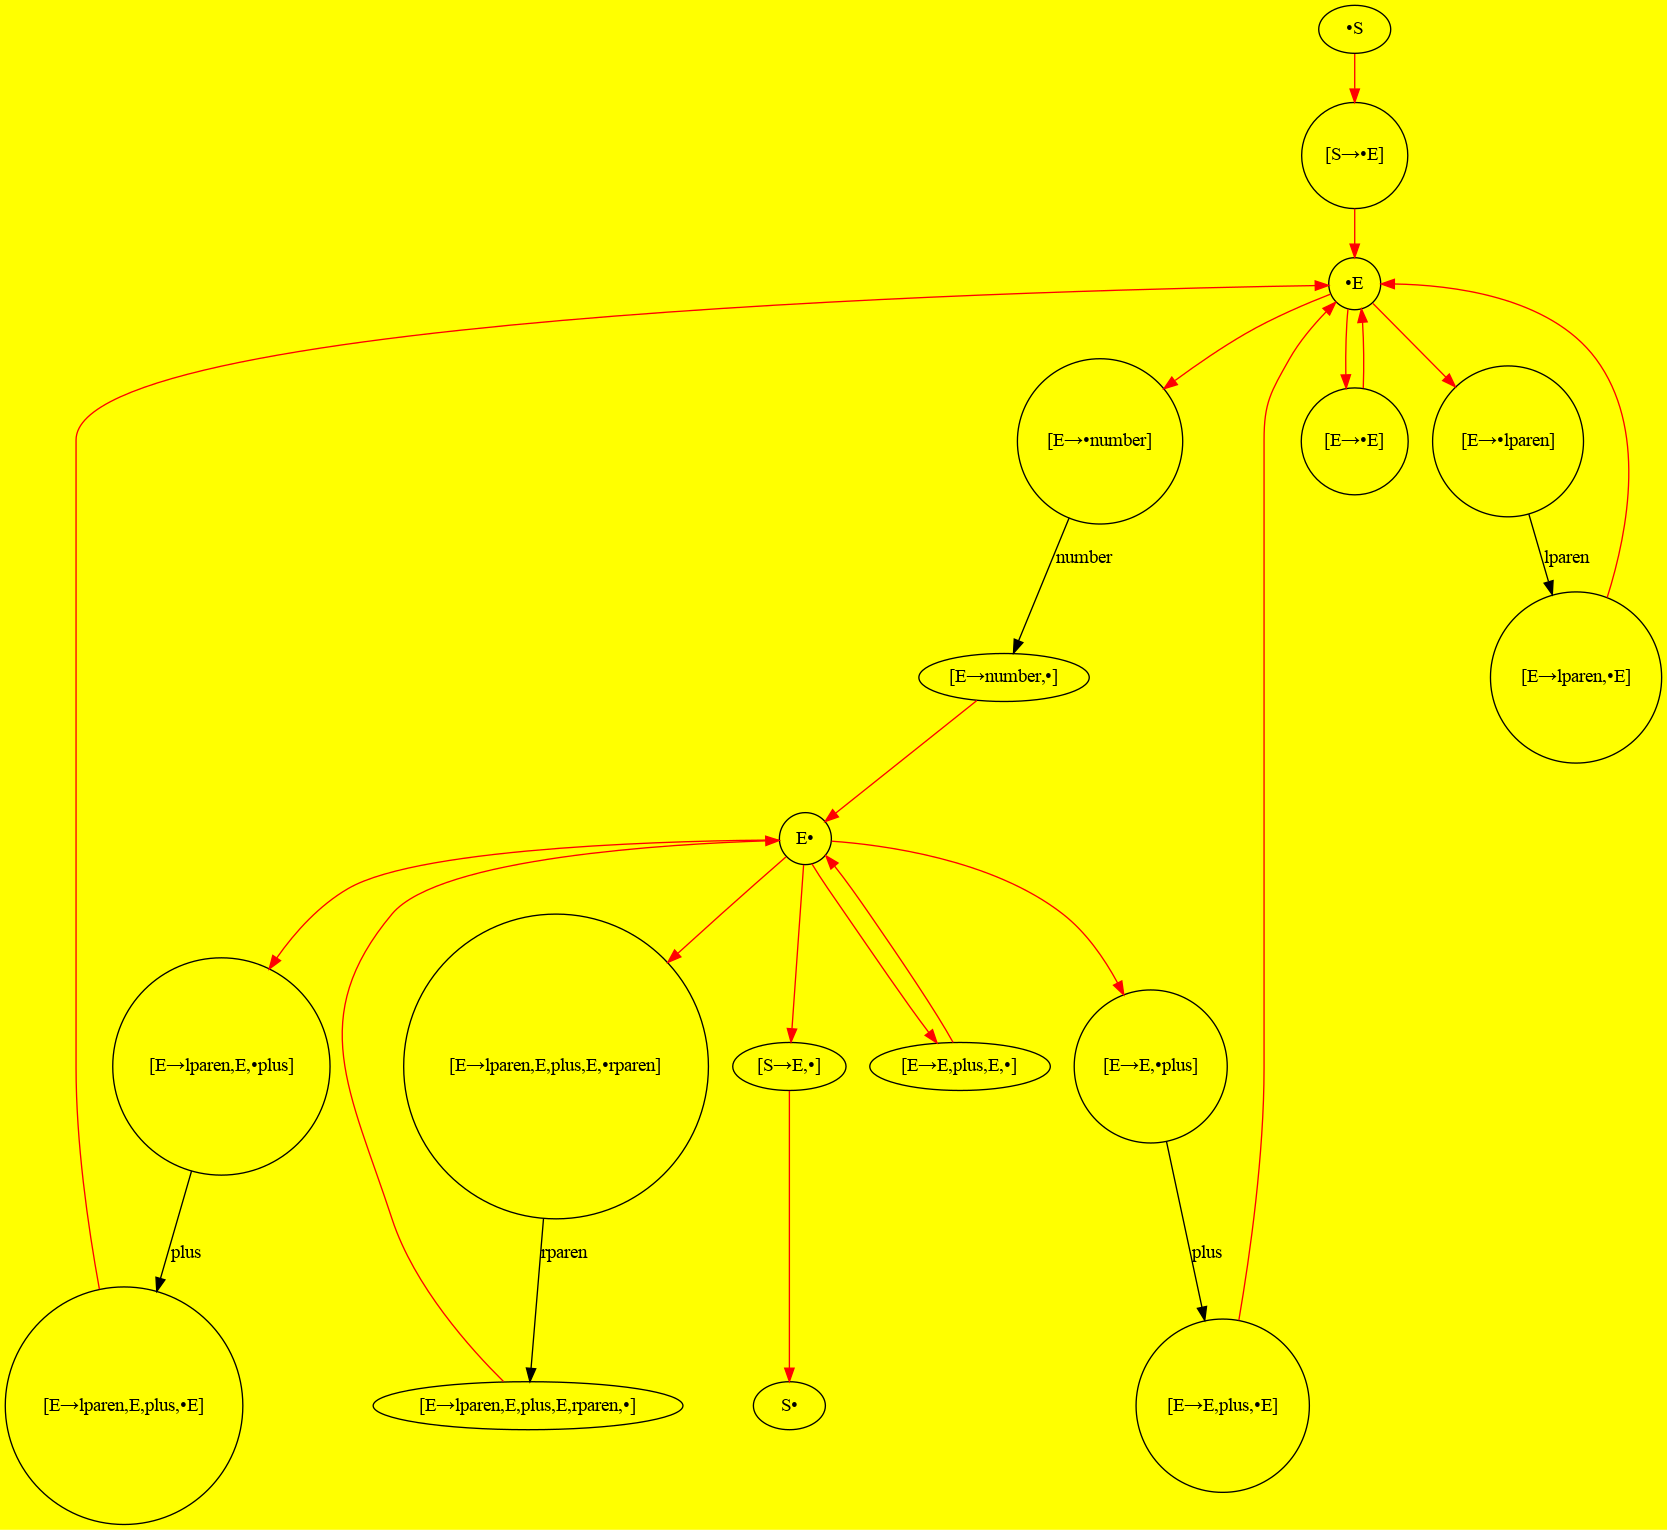
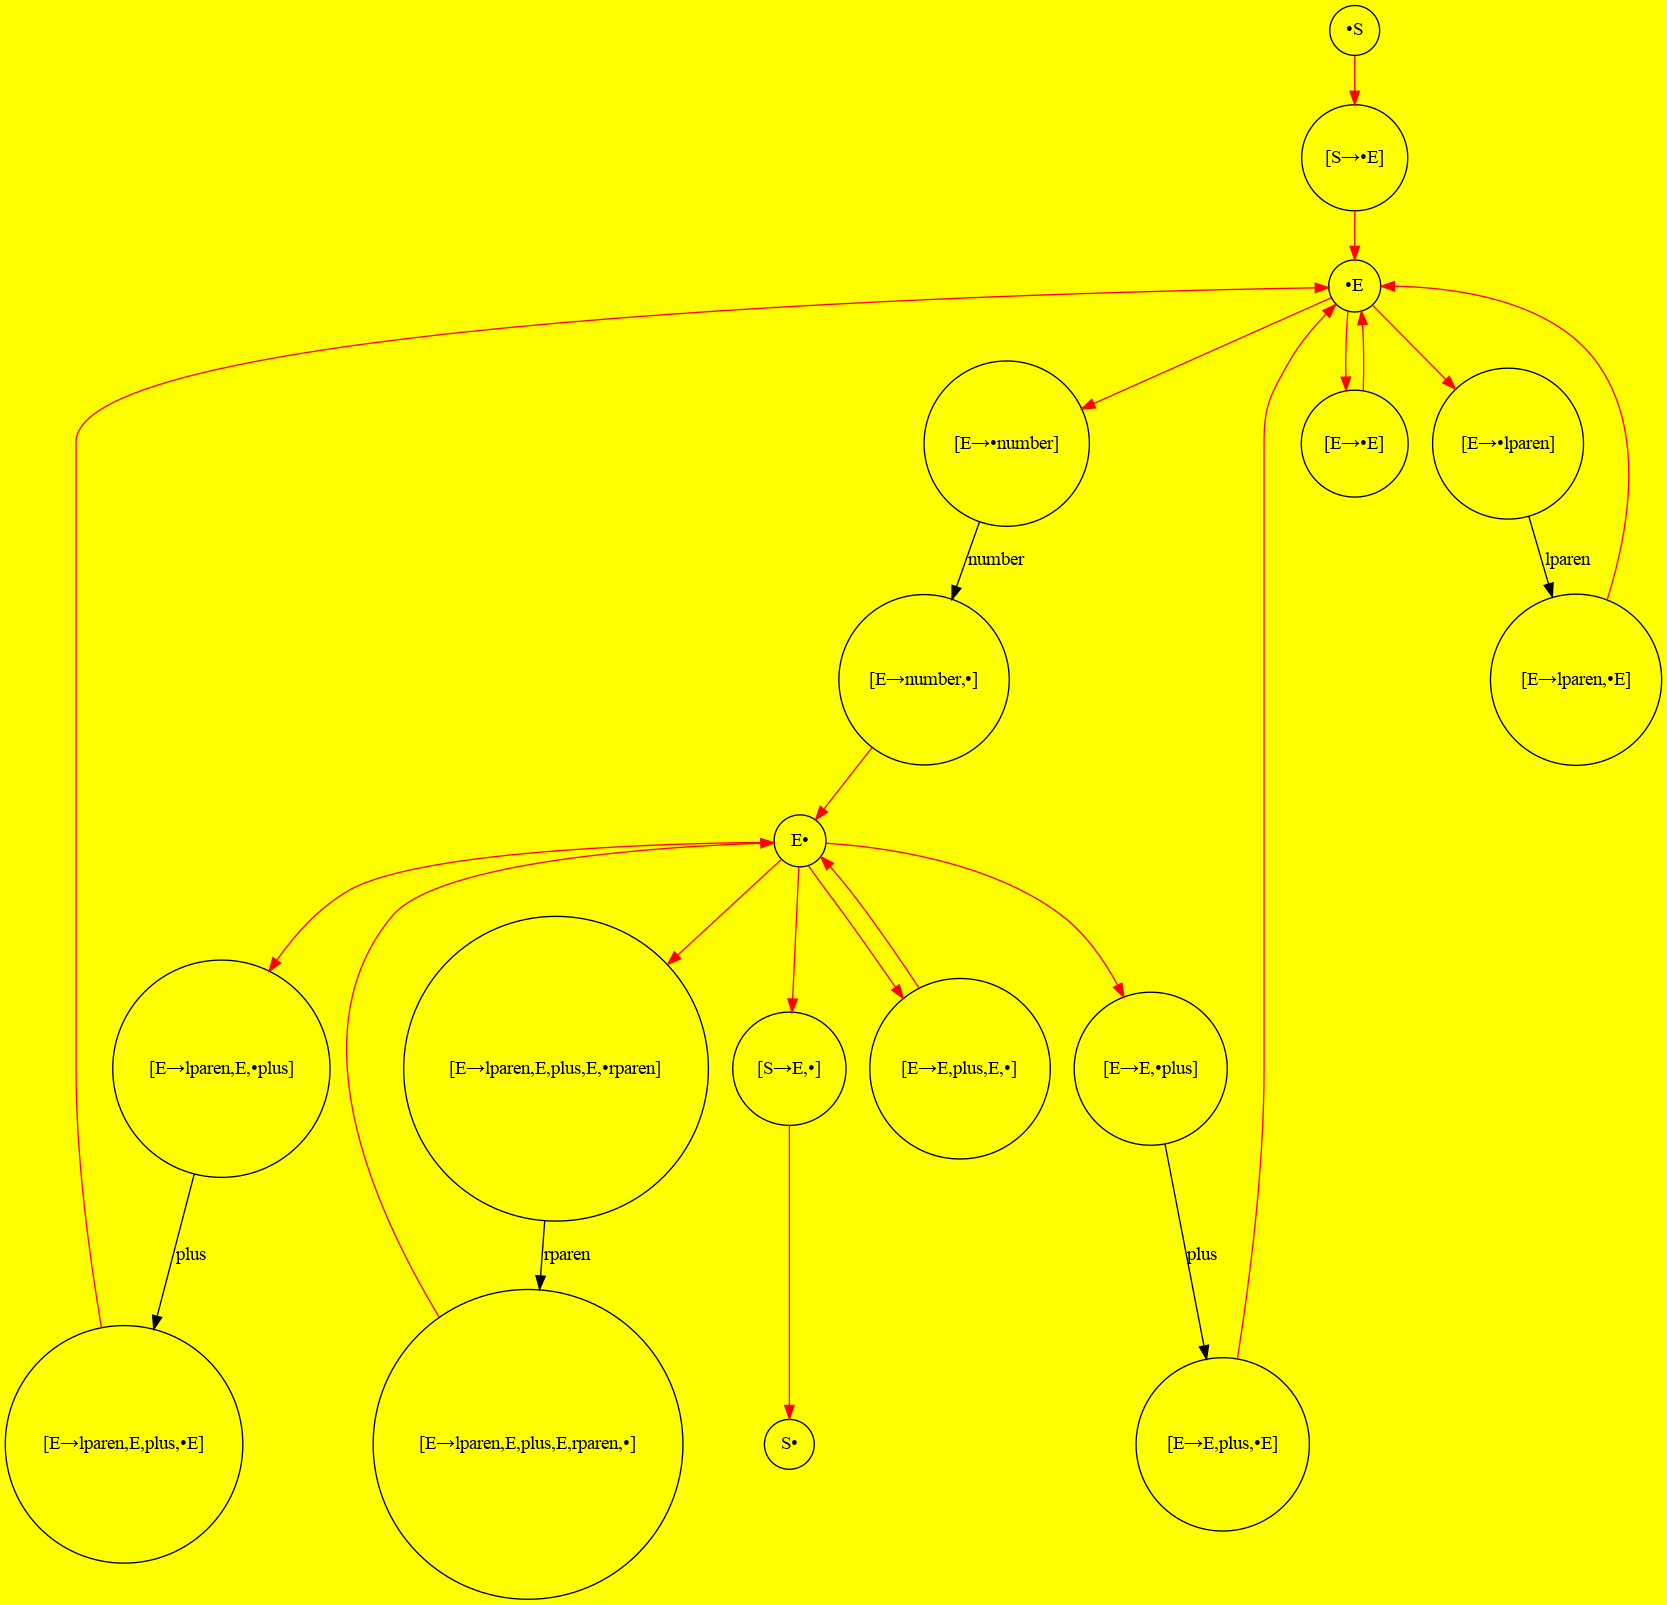
cleanup code, added helper functions, added comments for build_gfg

diff --git a/gfg.py b/gfg.py
@@ -27,11 +27,6 @@ class Node:
     def __eq__(self, other):
         return isinstance(other, Node) and self.label == other.label
 
-def add_edge(src, dest, label):
-    src.outgoing_edges[dest.label] = label
-    dest.incoming_edges[src.label] = label
-    # print(f"\t\t\tcreating edge from {src.long_name} to {dest.long_name} with LABEL: {label}")
-
 class GFG:
     def __init__(self, lexer):
         self.nodes = {}
@@ -48,126 +43,134 @@ class GFG:
         # simply used for debugging to visualize the gfg
         self.graph = pydot.Dot("my_graph", graph_type="digraph", bgcolor="yellow")
 
+    def add_node(self, label, long_name, type):
+        self.nodes[label] = Node(label, long_name, type)
+        # add node to pydot graph for visualization/debugging only
+        self.graph.add_node(pydot.Node(long_name, shape="circle"))
+        return self.nodes[label]
+    
+    # create the start and end nodes for a given production, curr_label is the next available
+    # int label that can be used to represent a node
+    def create_start_end_nodes_for_prod(self, prod_name, curr_label):
+        self.add_node(curr_label, f"•{prod_name}", "start")
+        self.add_node(curr_label + 1, f"{prod_name}•", "end")
+
+        # update maps to keep track of relationship between production names and nodes
+        self.map_prod_name_to_start[prod_name] = curr_label
+        self.map_start_to_end[curr_label] = curr_label + 1
+        self.map_end_to_start[curr_label + 1] = curr_label
+        return curr_label + 2
+
+    # adds a direction edge from src to dest where the label is the terminal that must be consumed
+    # to move from src to dest in the gfg (often the empty string)
+    def add_edge(self, src, dest, label):
+        src.outgoing_edges[dest.label] = label
+        dest.incoming_edges[src.label] = label
+
+        # optional edges in pydot for gfs visualization, scan edges are black, 
+        # epsilon edges are red
+        color = "red" if label == "" else "black"
+        self.graph.add_edge(pydot.Edge(src.long_name, dest.long_name, label=label, color=color))
+        # print(f"\t\t\tcreating edge from {src.long_name} to {dest.long_name} with LABEL: {label}")
+
     # productions is a map string : list(list(str))
     # value is list of possible productions for a given production name
     # each production is a list of token names or production names
     def build_gfg(self, productions, start_producition="S"):
-        # production : <start node label, end node label>
-
         # each node in the graph is assigned an integer label
         curr_label = 0
 
         # create the start and end node for the start producition first
         # ensures that the start node for the gfg is node 0
         # ensures that the end node for the gfg is node 1
-        self.nodes[curr_label] = Node(curr_label, f"•{start_producition}", "start")
-        self.nodes[curr_label + 1] = Node(curr_label + 1, f"{start_producition}•", "end")
-
-        self.map_prod_name_to_start[start_producition] = curr_label
-        self.map_start_to_end[curr_label] = curr_label + 1
-        self.map_end_to_start[curr_label + 1] = curr_label
-        curr_label += 2
+        curr_label = self.create_start_end_nodes_for_prod(start_producition, curr_label)
 
         # create start and end node for every other production
         for prod_name in productions:
             if prod_name is not start_producition:
-                self.nodes[curr_label] = Node(curr_label, f"•{prod_name}", "start")
-                self.graph.add_node(pydot.Node(f"•{prod_name}", shape="circle"))
-
-                self.nodes[curr_label + 1] = Node(curr_label + 1, f"{prod_name}•", "end")
-                self.graph.add_node(pydot.Node(f"{prod_name}•", shape="circle"))
-
-                self.map_prod_name_to_start[prod_name] = curr_label
-                self.map_start_to_end[curr_label] = curr_label + 1
-                self.map_end_to_start[curr_label + 1] = curr_label
-                curr_label += 2
+                curr_label = self.create_start_end_nodes_for_prod(prod_name, curr_label)
 
         # for each production create necessary nodes
         for prod_name, prods in productions.items():
             for prod_rhs in prods:
                 # print(f"\tCreating production: {prod_name}→{prod_rhs}")
 
-                # previous node in the production
+                # previous node in the production (initially the start node of that production)
                 prev_node = self.nodes[self.map_prod_name_to_start[prod_name]]
-                # set if previous node as a call node
+                # set if previous node is a call node
                 end_node = None 
                 edge_label = ""
                 prefix_label = f"{prod_name}→"
                 is_entry = True
 
                 for term in prod_rhs:
-                    new_node = Node(curr_label, f"[{prefix_label}•{term}]", "production")
+                    new_node = self.add_node(curr_label, f"[{prefix_label}•{term}]", "production")
+                    curr_label += 1
                     new_node.is_entry = is_entry
                     is_entry = False
                     if prev_node.is_call:
+                        # if previous node is a call node to a production then this node is 
+                        # the return node from the production
+                        # Ex: prev_node: A→a•B, then new_node is A→aB•
                         new_node.is_return = True
                         self.map_call_to_return[prev_node.label] = new_node.label
                         self.map_return_to_call[new_node.label] = prev_node.label
 
-                    self.graph.add_node(pydot.Node(f"[{prefix_label}•{term}]", shape="circle"))
-                    self.nodes[curr_label] = new_node
-                    curr_label += 1
-
-                    # add edge from prev_node to new_node with appropriate label
+                    # if previous node is a call node, Ex: prev_node: A→a•B then incoming edge to
+                    # new node should be from the end node of the called production, in this case B•
+                    # this node was stored in end_node during previous iteration
+                    # otherwise if previous node is not a call node, then just set incoming edge
+                    # from prev_node with the set edge label
                     src_node = end_node if prev_node.is_call else prev_node
-                    add_edge(src_node, new_node, edge_label)
-                    color = "red" if edge_label == "" else "black"
-                    self.graph.add_edge(pydot.Edge(src_node.long_name, new_node.long_name, label=edge_label, color=color))
+                    self.add_edge(src_node, new_node, edge_label)
 
                     if term in self.lexer.tokens:
-                        # print(f"\t\t{term} is a terminal")
+                        # term is a terminal, next edge should be a scan edge
                         new_node.is_scan = True
                         edge_label = f"{term}"
-                        prev_node = new_node
                         end_node = None
                     elif term in productions:
-                        # print(f"\t\t{term} is a production")
+                        # term is a production, thus new_node is a call node
                         new_node.is_call = True
-                        start = self.map_prod_name_to_start[term]
-                        end = self.map_start_to_end[start]
+                        # get start and end node of called production
+                        called_prod_start = self.map_prod_name_to_start[term]
+                        called_prod_end = self.map_start_to_end[called_prod_start]
                         # add edge from call node to start node of production
-                        self.graph.add_edge(pydot.Edge(new_node.long_name, self.nodes[start].long_name, color="red"))
-                        add_edge(new_node, self.nodes[start], "")
-                        # set prev_node to prod• so next edge source is correct
-                        prev_node = new_node
-                        end_node = self.nodes[end]
+                        self.add_edge(new_node, self.nodes[called_prod_start], "")
+                        # set end_node to prod• so next edge source is correct
+                        end_node = self.nodes[called_prod_end]
                         edge_label = ""
                     else:
                         print(f"\t\TODO RAISE ERROR unrecognized term: {term}") 
                         return
                     
+                    # update prev_node and prefix_label
+                    prev_node = new_node
                     prefix_label = prefix_label + f"{term},"
 
-                exit_node = Node(curr_label, f"[{prefix_label}•]", "production")
-                exit_node.is_entry = is_entry
+                # reached exit node for current production
+                exit_node = self.add_node(curr_label, f"[{prefix_label}•]", "production")
+                curr_label += 1
+
+                exit_node.is_entry = is_entry # may also be entry node if production is A->epsilon
                 exit_node.is_exit = True
                 if prev_node.is_call:
                     exit_node.is_return = True
                     self.map_call_to_return[prev_node.label] = exit_node.label
                     self.map_return_to_call[exit_node.label] = prev_node.label
 
-                self.nodes[curr_label] = exit_node
-                curr_label += 1
-
-                src_node = end_node if prev_node.is_call else prev_node
-                if prev_node.is_call:
-                    print("GOING FROM END TO EXIT", src_node.long_name, exit_node.long_name)
-                add_edge(src_node, exit_node, edge_label)
-                color = "red" if edge_label == "" else "black"
-                self.graph.add_edge(pydot.Edge(src_node.long_name, exit_node.long_name, color=color, label=edge_label))
-
-                # create edge from exit node to end node
-                end_node = self.nodes[self.map_start_to_end[self.map_prod_name_to_start[prod_name]]]
-                add_edge(exit_node, end_node, "")
-                self.graph.add_edge(pydot.Edge(exit_node.long_name, end_node.long_name, color="red"))
-
-        print(self.nodes)
-        print(self.map_call_to_return)
-        print(self.map_return_to_call)        
-        
-
-        # graph.write_png("output.png")
                 
+                src_node = end_node if prev_node.is_call else prev_node
+                self.add_edge(src_node, exit_node, edge_label)
+
+                # create edge from exit node to end node (Ex: A→aB• goes to A•)
+                end_node = self.nodes[self.map_start_to_end[self.map_prod_name_to_start[prod_name]]]
+                self.add_edge(exit_node, end_node, "")
+
+        # print(self.nodes)
+        # print(self.map_call_to_return)
+        # print(self.map_return_to_call)        
+                        
     
     def eclosuer(self, sigma_sets, sigma_end_to_call):
         label_queue = queue.Queue()
@@ -284,7 +287,7 @@ if __name__ == "__main__":
 
     test_gfg.build_gfg(productions, "S")
 
-    # test_gfg.graph.write_png("output.png")
+    test_gfg.graph.write_png("output.png")
 
     data = "7 + 8 + 9"
     print(f"is {data} in language: {test_gfg.recognize_string(data)}")
